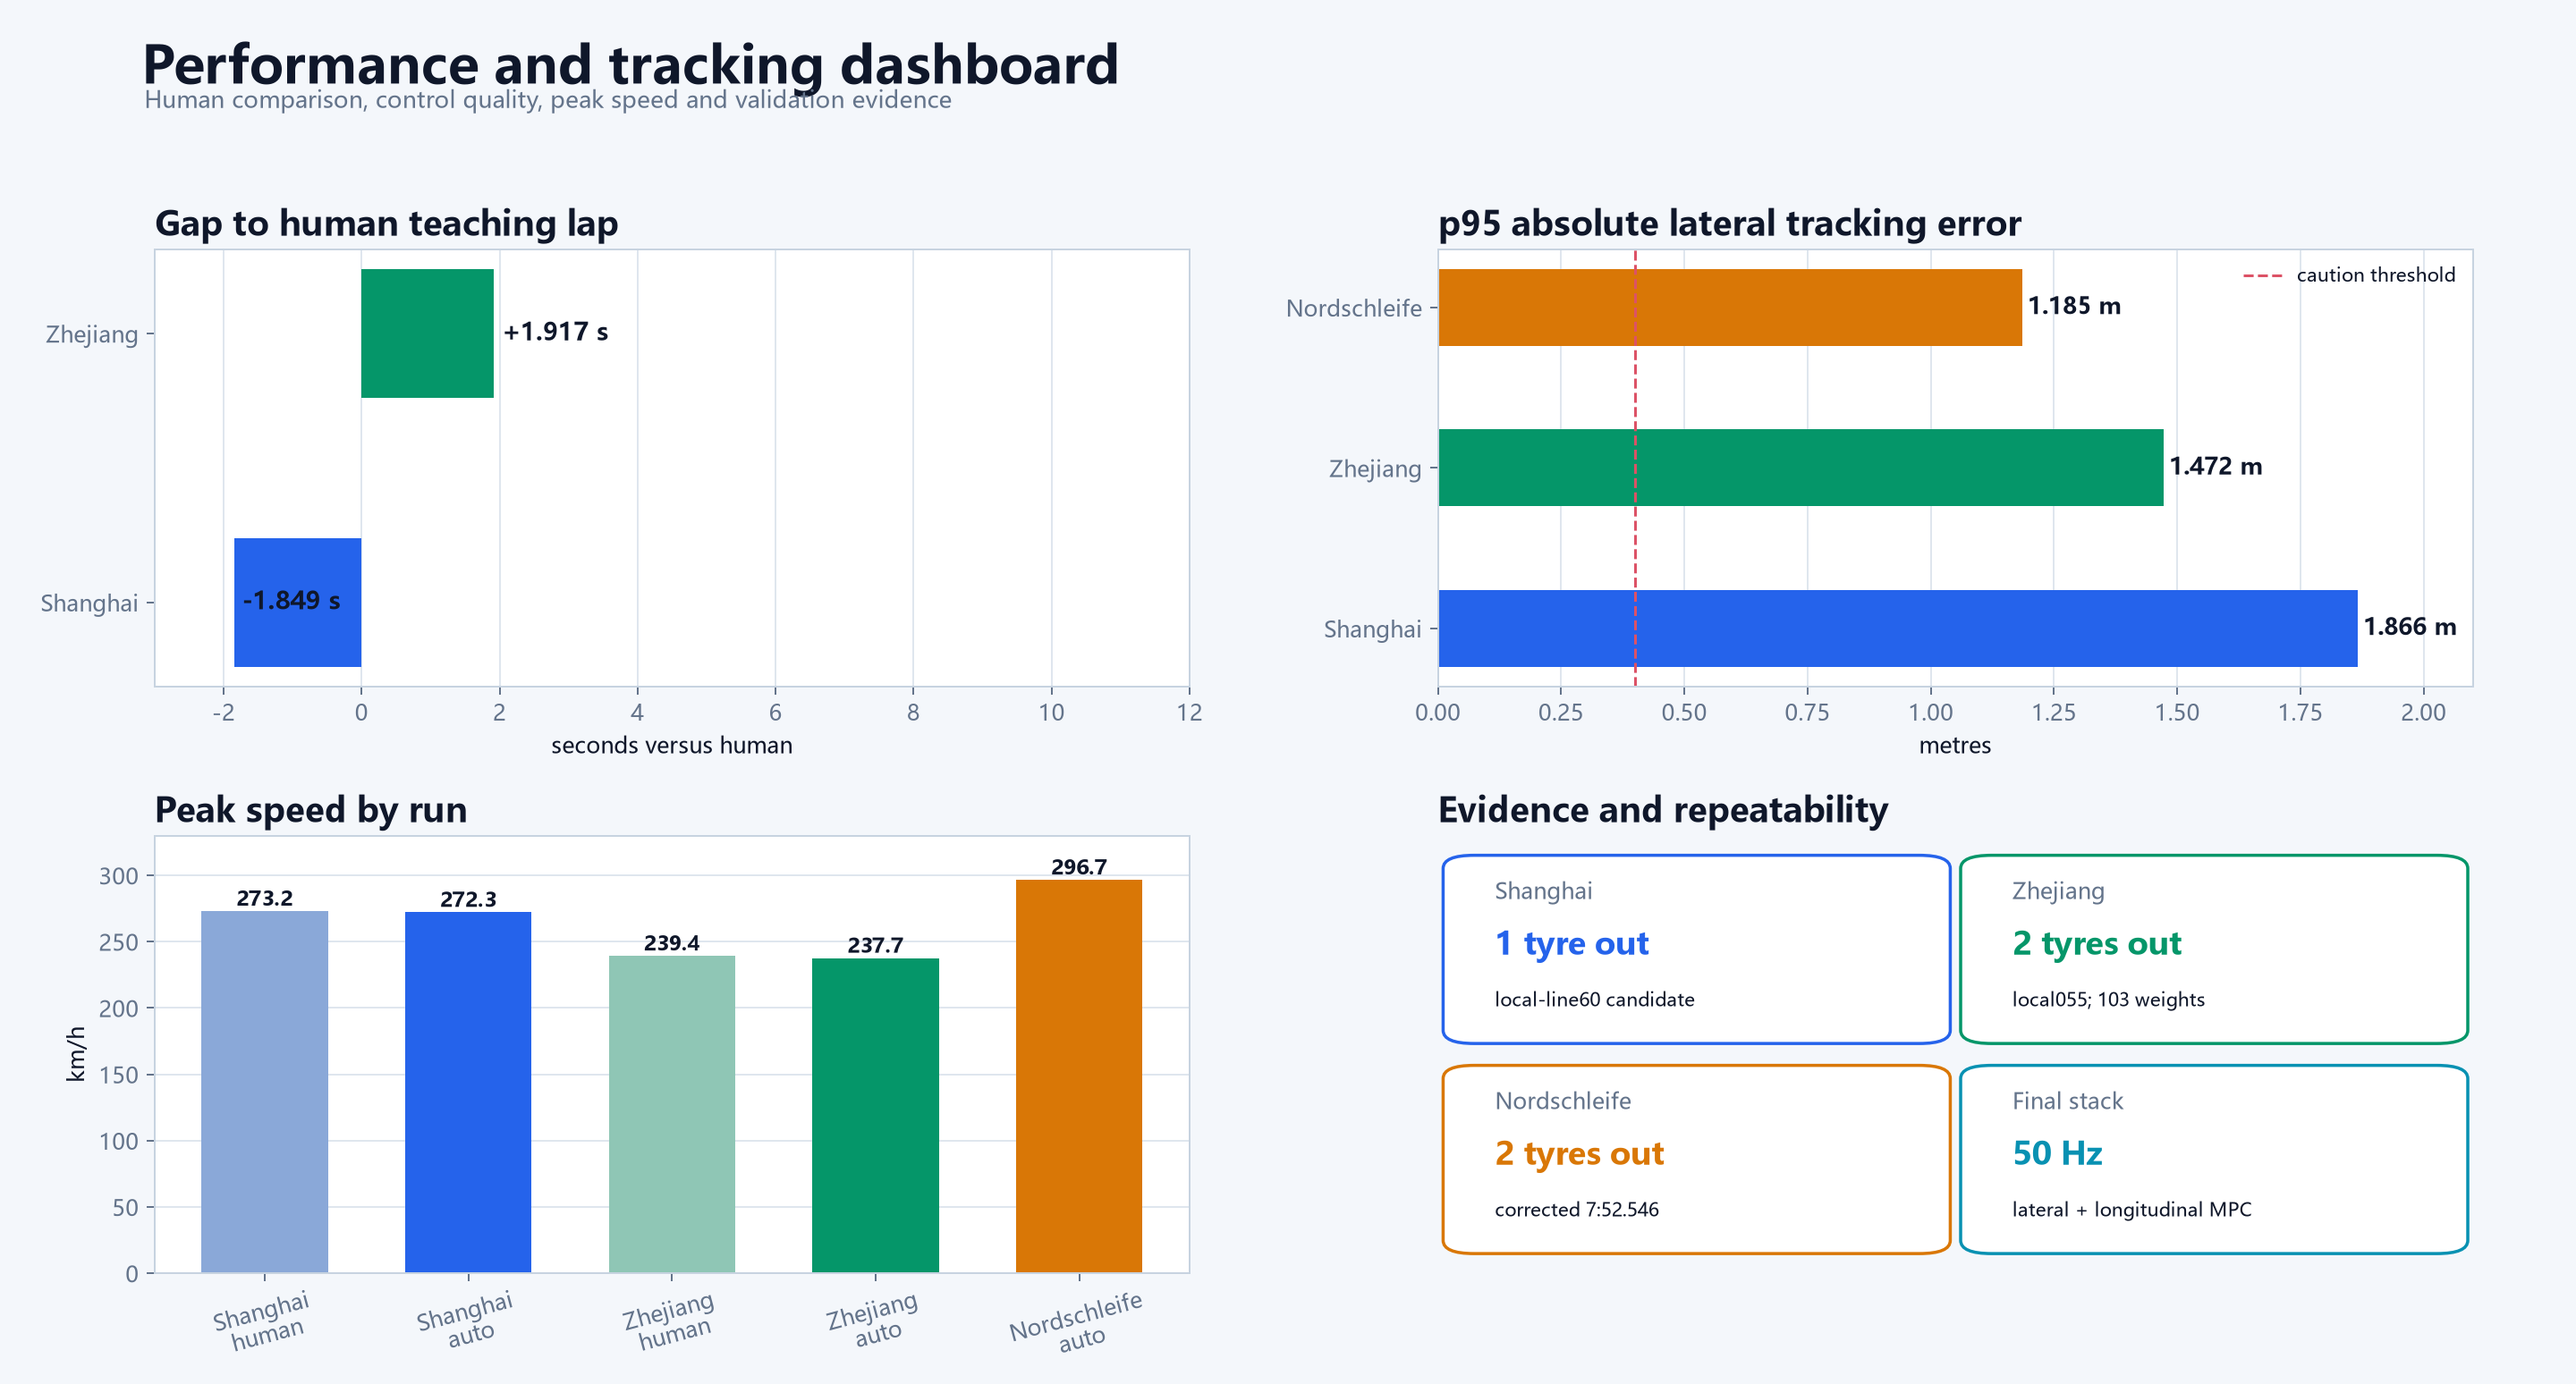
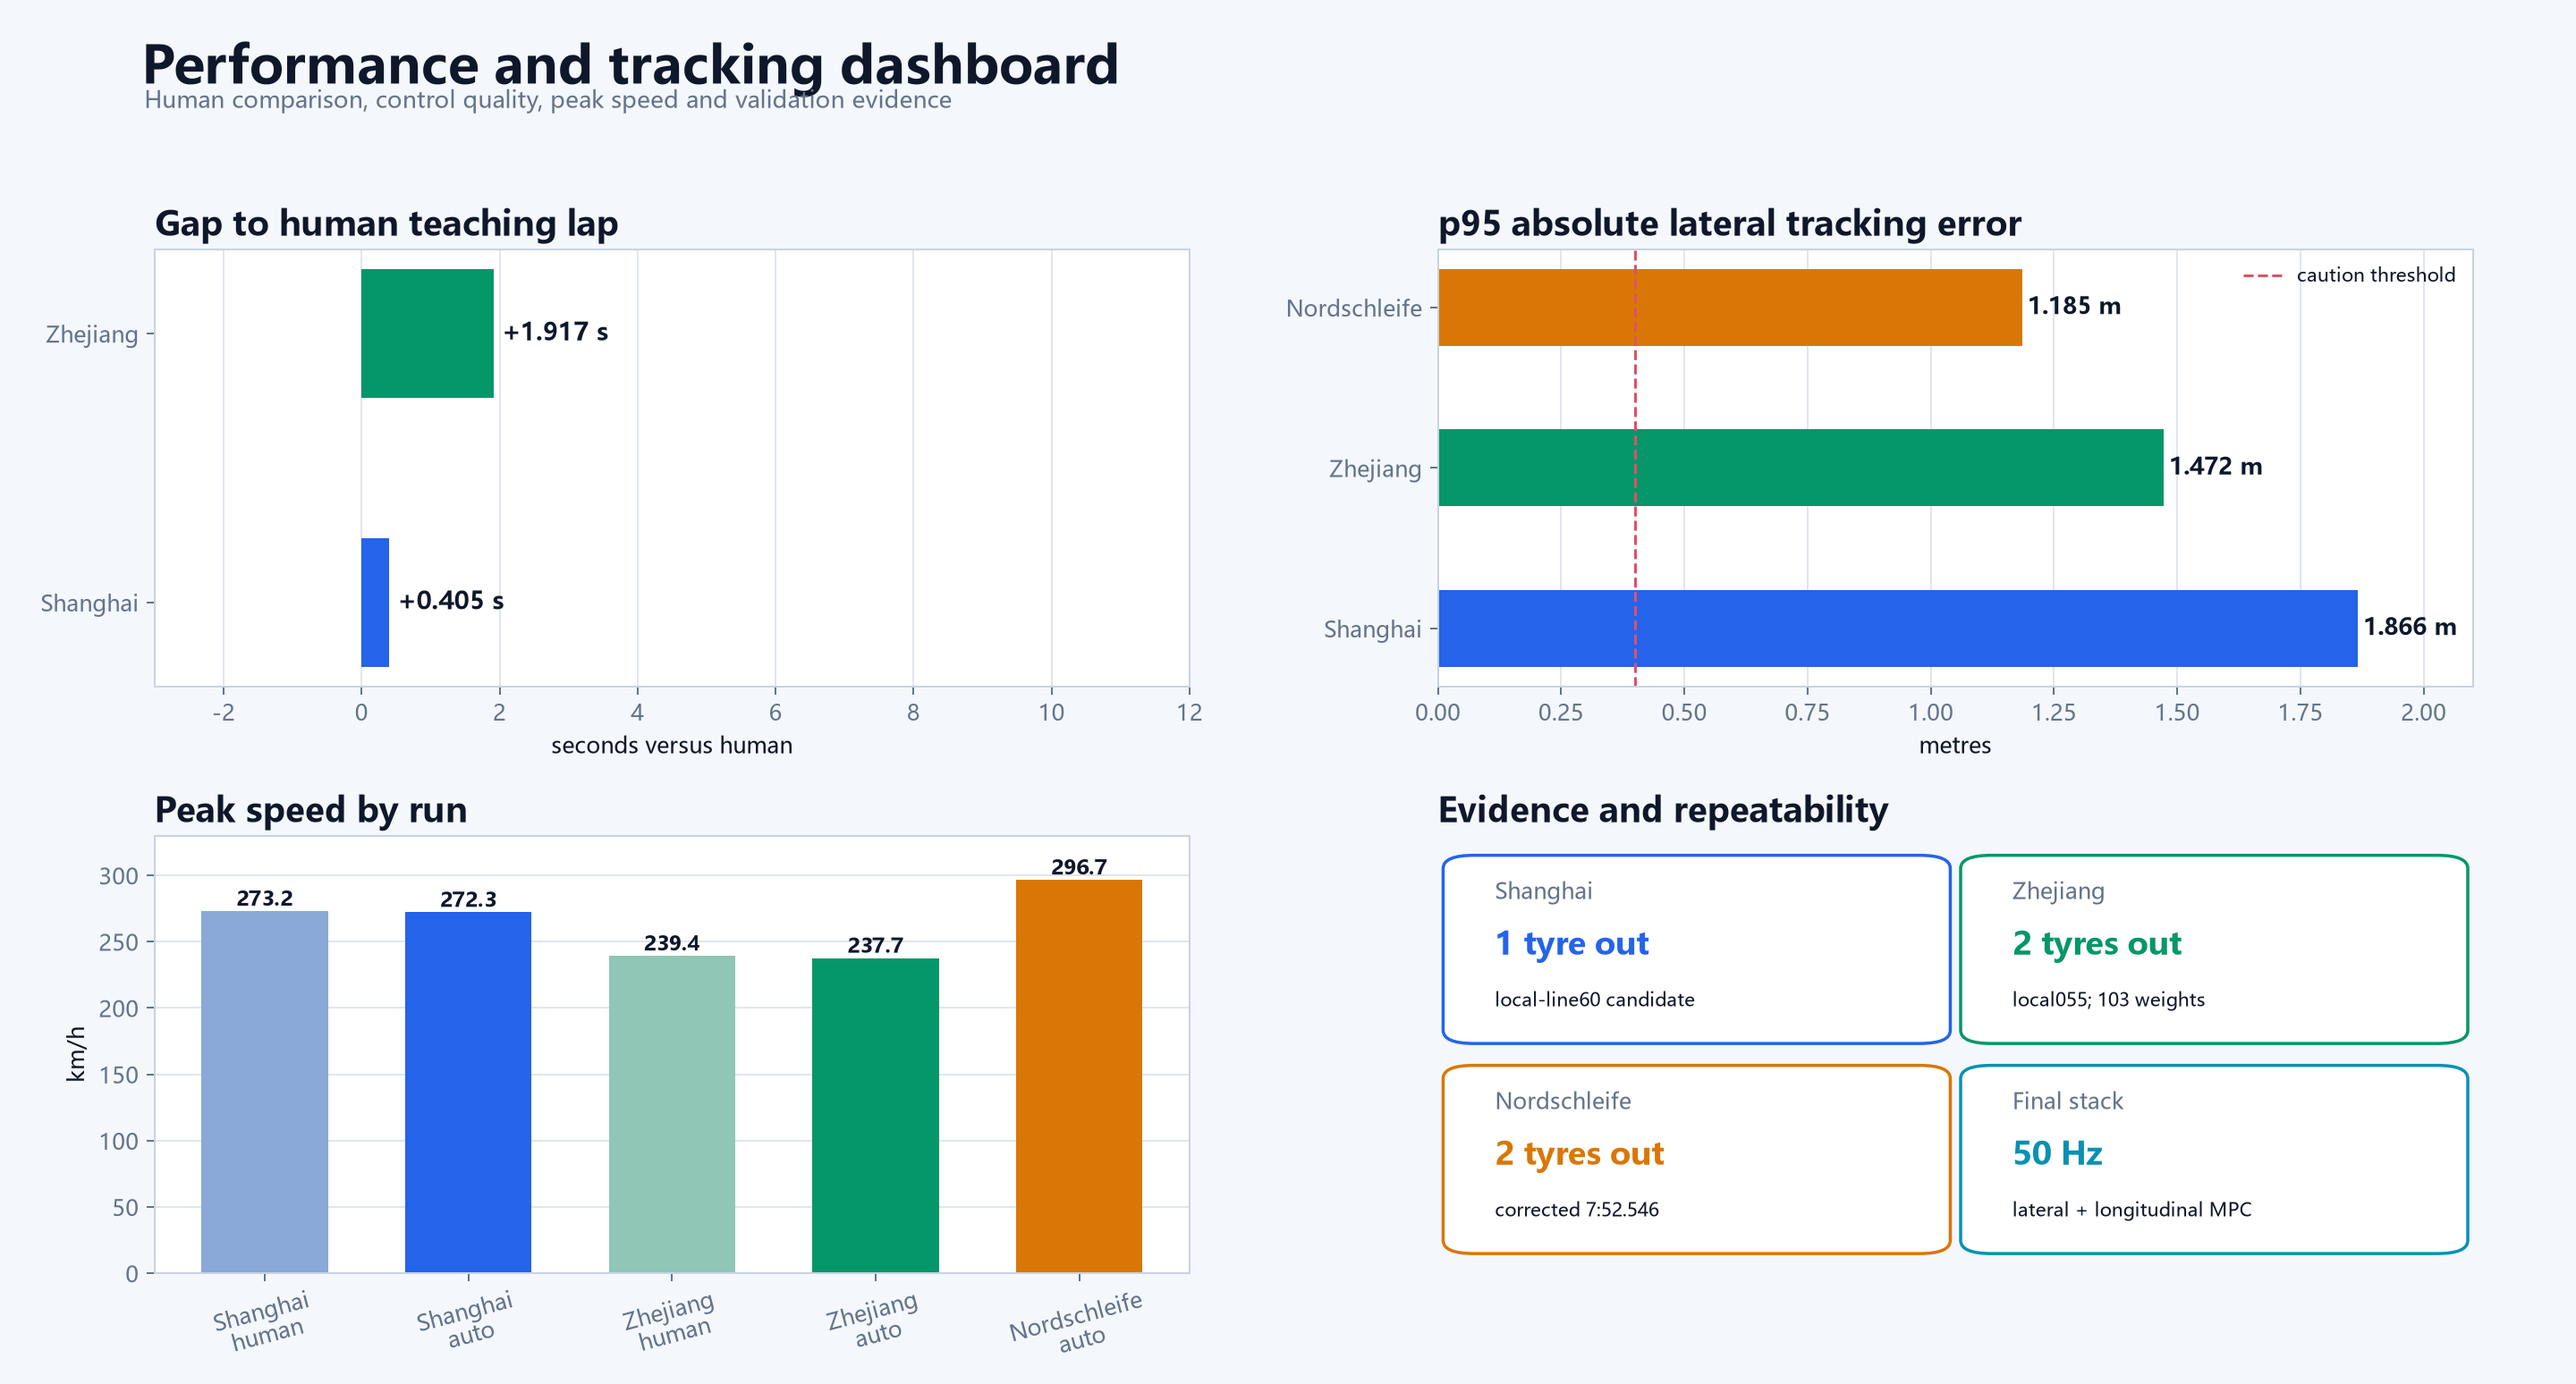
Update Shanghai human reference lap

Changed region(s): [[0.0938, 0.3721, 0.1875, 0.4961]]

diff --git a/tools/build_visual_report.py b/tools/build_visual_report.py
@@ -419,8 +419,8 @@ def build_track_maps() -> None:
             "name": "Shanghai",
             "auto_path": PROJECT_ROOT / "logs" / "lmpc_shanghai_frenet_refine_103_latest_local_line60.csv",
             "display_time": 134.399,
-            "human_time": 136.248,
-            "gap_s": -1.849,
+            "human_time": 133.994,
+            "gap_s": 0.405,
             "color": COLORS["blue"],
             "track_name": "tr_shanghai",
             "configuration": "advanced",
@@ -620,7 +620,7 @@ def build_performance_dashboard() -> None:
 
     ax_gap = fig.add_subplot(grid[0, 0])
     tracks = ["Shanghai", "Zhejiang"]
-    gaps = [-1.849, 1.917]
+    gaps = [0.405, 1.917]
     colors = [COLORS["blue"], COLORS["green"]]
     bars = ax_gap.barh(tracks, gaps, color=colors, height=0.48)
     for bar, gap in zip(bars, gaps):

diff --git a/tools/build_project_assets.py b/tools/build_project_assets.py
@@ -389,7 +389,7 @@ def build_track_results() -> None:
             "length": "5.43 km",
             "lap": 134.399,
             "label": "2:14.399",
-            "human": "2:16.248",
+            "human": "2:13.994",
             "status": "local-line60; latest candidate",
             "max_speed": 272.325,
             "lat": 1.866,

diff --git a/docs/TECHNICAL_REPORT.md b/docs/TECHNICAL_REPORT.md
@@ -38,7 +38,7 @@ Assetto Corsa
 
 | Track | Human | Automatic | Gap | Tyres out |
 | --- | ---: | ---: | ---: | ---: |
-| Shanghai | 2:16.248 | 2:14.399 | -1.849 s | 1 |
+| Shanghai | 2:13.994 | 2:14.399 | +0.405 s | 1 |
 | Zhejiang | 1:34.329 | 1:36.245 | +1.917 s | 2 |
 | Nordschleife | 7:17.632 | 7:52.546 | +34.914 s | 2 |
 
@@ -1060,16 +1060,17 @@ $$
 
 | Item | Value |
 | --- | ---: |
-| Human | 2:16.248 |
+| Human | 2:13.994 |
 | Auto | 2:14.399 |
-| Gap | -0:01.849 |
+| Gap | +0:00.405 |
 | Speed cap | 300 km/h |
 | p95 lateral error | 1.866 m |
 | P95 heading error | 0.0796 rad |
 | Tyres out | 1 |
 
 最新 local-line60 版本加入了两个局部弯道修正，并使用最终 103 横向权重与
-实测纵向能力包络。
+实测纵向能力包络。成绩表使用 Content Manager 记录的新人驾最佳圈
+`2:13.994`；对比曲线仍使用带完整遥测的旧人驾参考圈 `2:16.248`。
 
 ![Shanghai comparison](../assets/figures/comparison_shanghai.png)
 
@@ -1159,7 +1160,7 @@ $$
 
 - 横向轨迹更平滑，横摆角速度的突变较少。
 - 同一配置多次重复性高，浙赛四圈的差异只有几十毫秒。
-- 上海完整圈速比人工快 `1.849 s`。
+- 上海智驾 `2:14.399`，新人驾最佳 `2:13.994`，目前慢 `0.405 s`。
 - 高速制动和路径跟踪不受驾驶疲劳影响。
 
 仍然不足的部分：

diff --git a/docs/RESULTS.md b/docs/RESULTS.md
@@ -13,7 +13,7 @@ Tyres:   Michelin PS4 Cup 2
 
 | Track | Human teaching lap | Best automatic lap | Gap | Automatic max speed | Tyres out | Status |
 | --- | ---: | ---: | ---: | ---: | ---: | --- |
-| Shanghai | 136.248 s | 134.399 s | -1.849 s | 300 km/h cap | 1 | local-line60 candidate |
+| Shanghai | 133.994 s | 134.399 s | +0.405 s | 300 km/h cap | 1 | local-line60 candidate |
 | Zhejiang | 94.329 s | 96.245 s | +1.917 s | 280 km/h cap | 2 | local055 user-confirmed candidate |
 | Nordschleife | 7:17.632 | 7:52.546 | +34.914 s | 300 km/h cap | 2 | corrected crossing-to-crossing result |
 
@@ -50,6 +50,10 @@ The latest crossing-based automatic lap is `134.399 s`:
 - p95 lateral error `1.866 m`
 - p95 heading error `0.0796 rad`
 - maximum tyres out `1`
+
+The current human reference on Shanghai is `133.994 s` from Content Manager, so
+the automatic lap is `0.405 s` behind. The comparison trace below still uses the
+older `136.248 s` human log because that is the available full telemetry.
 
 The main gain came from the lateral-weight refinement, reachable braking
 planning and two small track-local corrections rather than a global

diff --git a/README.md b/README.md
@@ -58,7 +58,7 @@ Tyres:   Michelin PS4 Cup 2
 
 | Track | Human | Auto | Gap | Auto max speed | Tyres out | Status |
 | --- | ---: | ---: | ---: | ---: | ---: | --- |
-| Shanghai | 136.248 s | 134.399 s | -1.849 s | 300 km/h cap | 1 | local-line60 candidate |
+| Shanghai | 133.994 s | 134.399 s | +0.405 s | 300 km/h cap | 1 | local-line60 candidate |
 | Zhejiang | 94.329 s | 96.245 s | +1.917 s | 280 km/h cap | 2 | local055 user-confirmed candidate |
 | Nordschleife | 7:17.632 | 7:52.546 | +34.914 s | 300 km/h cap | 2 | corrected crossing-to-crossing result |
 
